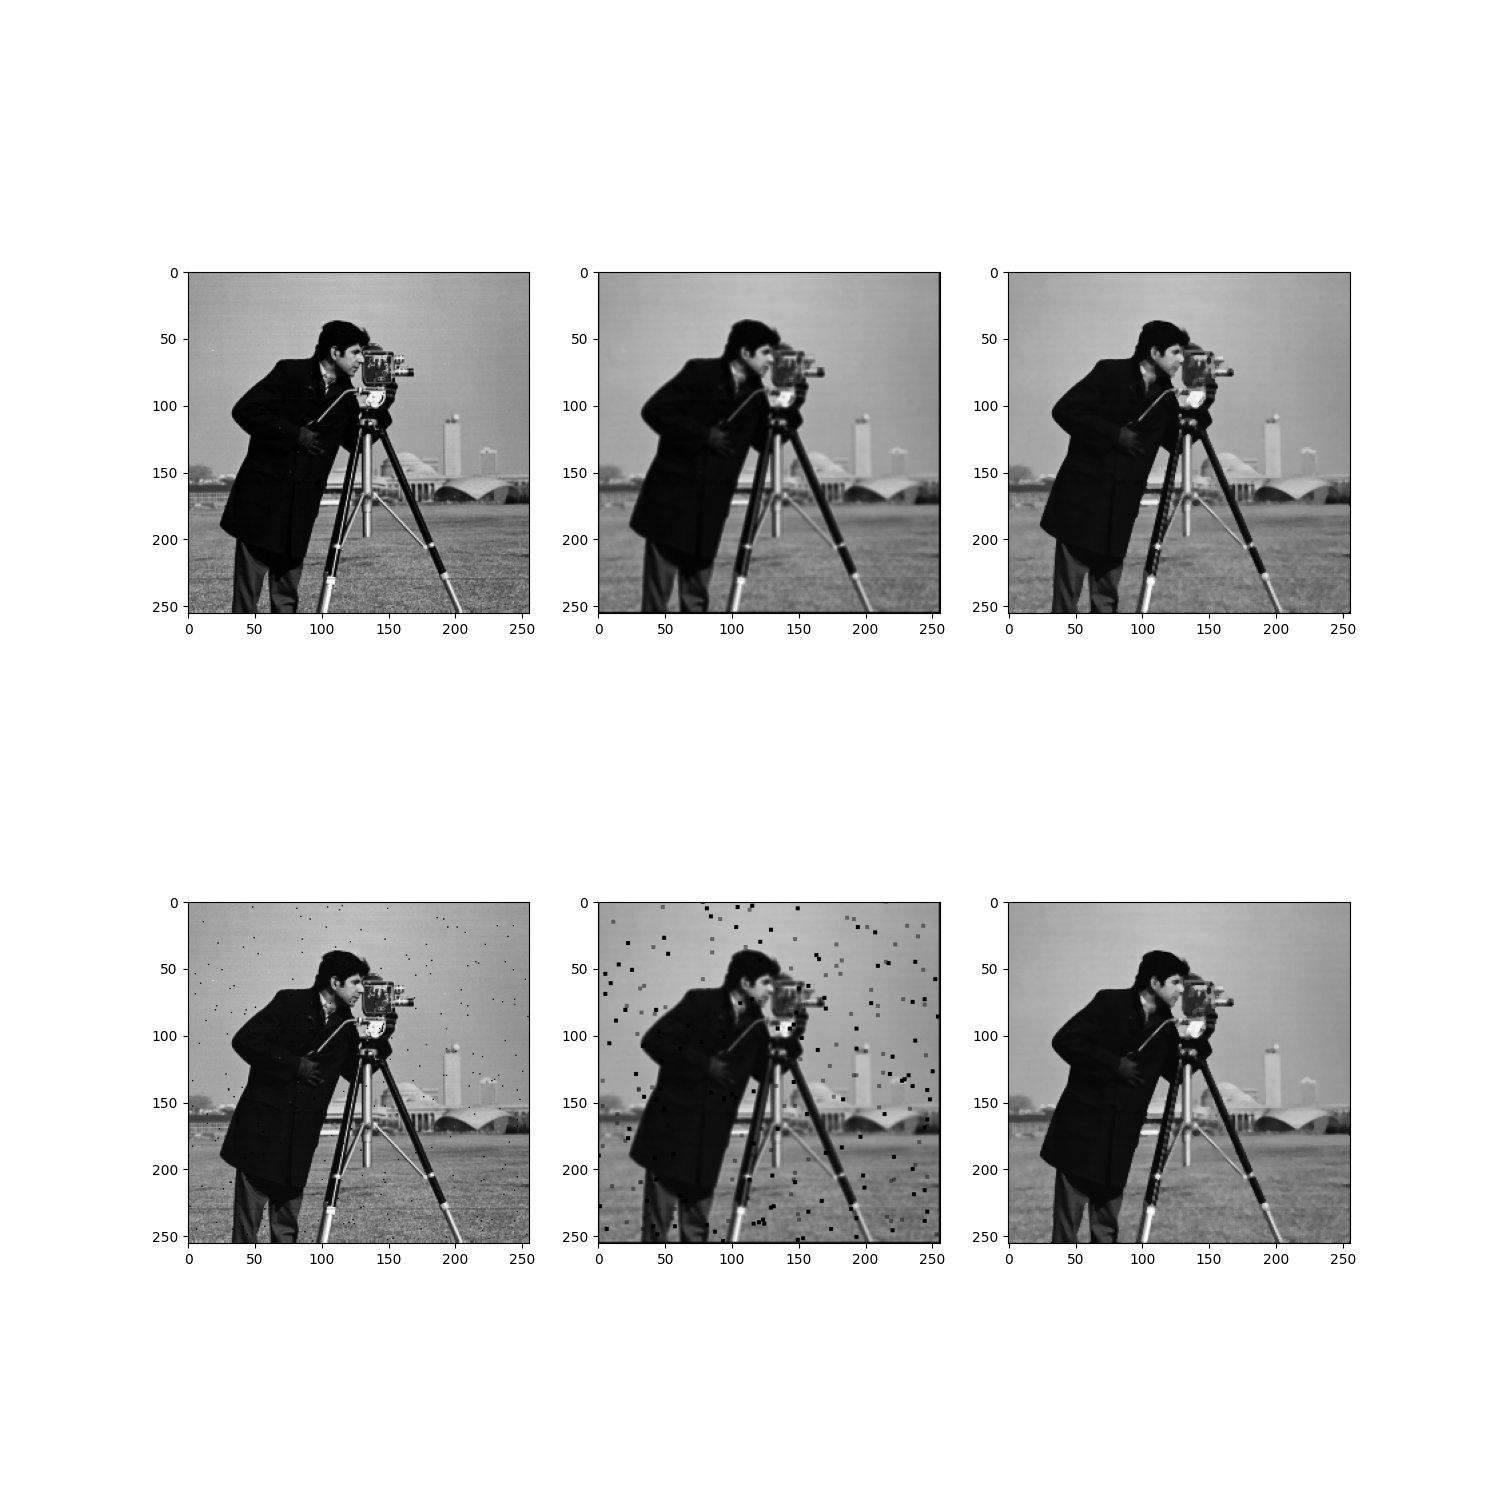
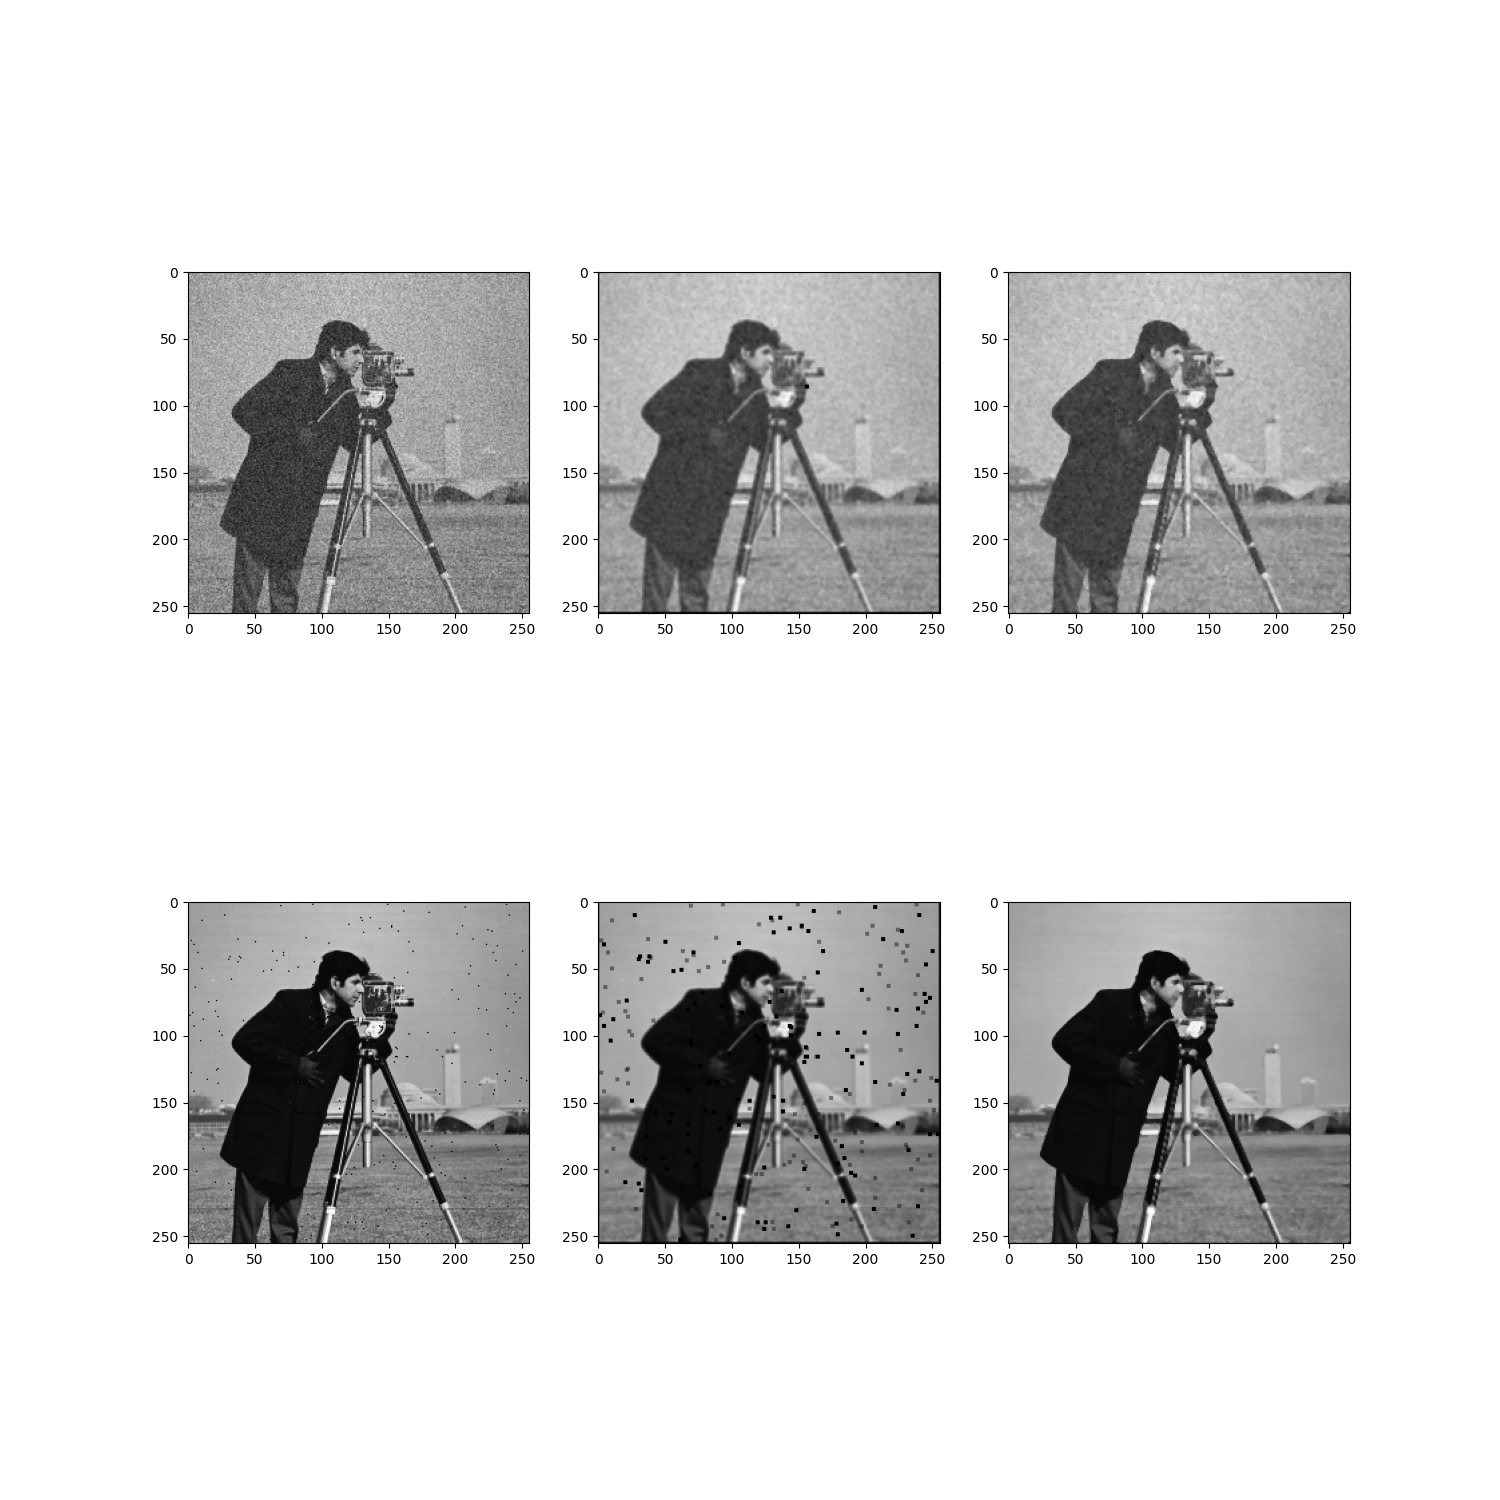
Correcoes Noises
Noise Gaussiano funcional

diff --git a/filtros_espaciais.py b/filtros_espaciais.py
@@ -93,14 +93,16 @@ def rgb2gray(img):
 # Função para criar ruídos distintos em imagens
 # os ruídos utilizados são o Gaussiano e o Salt and Peper (Impulsivo)
 def noisy(noise_typ,image):
+    image = image.astype(int)
     if noise_typ == "gauss":
         row, col = image.shape
         mean = 0
-        var = 0.1
+        var = 500
         sigma = var**0.5
         gauss = np.random.normal(mean, sigma, size=(row,col))
         gauss = gauss.reshape(row, col)
         noisy = image + gauss
+        noisy -= noisy.min() 
         return noisy
     elif noise_typ == "s&p":
         row,col = image.shape
@@ -127,9 +129,9 @@ s = 3
 w = np.ones([s, s])
 
 imagesStrings = [
-    {"name": "cameraman.tiff", "hasColor": False},
-    {"name": "coruja.jpg", "hasColor": True},
-    {"name": "paisagem.jpg", "hasColor": True}
+    {"name": "cameraman.tiff", "hasColor": False}
+    # {"name": "coruja.jpg", "hasColor": True}
+    # {"name": "paisagem.jpg", "hasColor": True}
 ]
 
 noises = [
@@ -150,6 +152,8 @@ for image in imagesStrings:
     if(image["hasColor"]):
         img = rgb2gray(img)
     
+    print("tipo: ", img.dtype)
+
     for i in range(0, len(noises)):
         rows = len(noises)
         cols = len(filters) + 1
